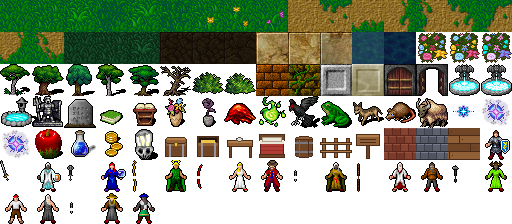
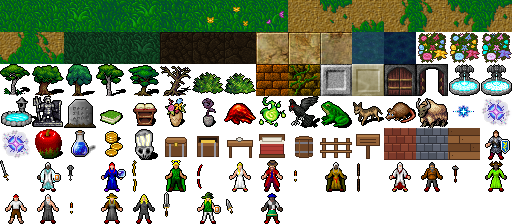
La Dernière Lanterne : deux clins d'œil à Clairfond
Nuage, qui rêve de l'épée la plus grande du monde, et le garçon en vert
qui tranche l'herbe (« Hyaa ! »). Un habitant peut avoir son geste à lui
(anim). Principe noté dans specs/rpg.md § 5.3.

Claude-Session: https://claude.ai/code/session_01RTxURJ1XwSQTktxKmeYS76

Changed region(s): [[0.25, 0.8438, 0.3438, 1.0], [0.375, 0.8438, 0.4688, 1.0], [0.5, 0.875, 0.5625, 1.0]]

diff --git a/lanterne/donnees/evenements.js b/lanterne/donnees/evenements.js
@@ -89,6 +89,21 @@ LANTERNE.evenements = {
     { dire: ['La forge est fermée : le charbon n\'arrive plus, les charrettes ne passent plus par les marais.',
       'Reviens me voir plus tard. Je te trouverai une lame digne d\'un veilleur.'], qui: 'forgeron' }
   ],
+  // deux voyageurs qui rappellent quelqu'un (clins d'œil discrets à d'autres RPG)
+  nuage: [
+    { si: 'nuage_vu',
+      alors: [{ dire: ['Quoi ? Non, je n\'ai jamais été soldat. Enfin… je crois pas.', 'Bref. Elle sera grande. Très grande.'], qui: 'nuage' }],
+      sinon: [
+        { dire: ['Bertin m\'a dit non. Encore.',
+          'Je veux l\'épée la plus grande du monde. Si grande qu\'on la porte dans le dos, et qu\'elle fasse peur rien qu\'à la regarder.',
+          'Il dit qu\'aucun bras ne pourrait la soulever. Il ne connaît pas mes bras.'], qui: 'nuage' },
+        { drapeau: 'nuage_vu' }
+      ] }
+  ],
+  garcon_vert: [
+    { dire: 'Hyaa !', qui: 'garcon_vert' },
+    { dire: 'Il tranche une touffe d\'herbe d\'un grand revers, fouille dedans, puis repart, l\'air déçu.' }
+  ],
   forge_fermee: [{ dire: 'La porte de la forge est fermée. Dehors, Bertin ronchonne contre le charbon.' }],
   pecheur: [
     { dire: ['Ça ne mord plus. Même les poissons ont peur de la brume.',

diff --git a/moteur-rpg/monde.js b/moteur-rpg/monde.js
@@ -8,7 +8,8 @@
        maisons:   [{ x, y, l, p, h, mur, toit, porte: dx }]  la porte est sur la rangée du bas, à x + dx
        objets:    [{ type: 'coffre' | 'panneau' | 'lanterne' | 'deco', x, y, … }]  (bloquent le passage)
        pnj:       [{ id, perso, x, y, evenement, erre, si, cache }]   erre : rayon de promenade (0 : immobile) ;
-                  cache : n'apparaît que par la commande { pnj, montrer } d'un événement
+                  cache : n'apparaît que par la commande { pnj, montrer } d'un événement ;
+                  anim : son geste quand il ne marche pas (ex. 'attaque'), sinon il respire
        sorties:   [{ x, y, vers, a: [x, y], dir }]   x peut être un intervalle [x1, x2]
        declencheurs: [{ x, y, evenement, si }]       lancé quand le chef de file arrive sur la case
        monstres:  [{ type, x, y, rayon }]

diff --git a/lanterne/donnees/base.js b/lanterne/donnees/base.js
@@ -27,7 +27,8 @@ LANTERNE.persos = {
   ysolde: { nom: 'Mère Ysolde', perso: 'ysolde' }, isee: { nom: 'Isée', perso: 'isee' }, vaast: { nom: 'Prieur Vaast', perso: 'vaast' },
   gaspard: { nom: 'Gaspard', perso: 'gaspard' }, forgeron: { nom: 'Bertin le forgeron', perso: 'forgeron' }, aubergiste: { nom: 'Margot', perso: 'aubergiste' },
   enfant: { nom: 'Petit Lou', perso: 'enfant' }, ancien: { nom: 'Le vieux Aimé', perso: 'ancien' }, paysanne: { nom: 'Jeanne', perso: 'paysanne' },
-  pecheur: { nom: 'Fulbert', perso: 'pecheur' }, moine: { nom: 'Un moine', perso: 'vaast' }
+  pecheur: { nom: 'Fulbert', perso: 'pecheur' }, moine: { nom: 'Un moine', perso: 'vaast' },
+  nuage: { nom: 'Nuage', perso: 'nuage' }, garcon_vert: { nom: 'Le garçon en vert', perso: 'garcon_vert' }
 };
 
 LANTERNE.statistiques = [

diff --git a/lanterne/donnees/cartes.js b/lanterne/donnees/cartes.js
@@ -64,7 +64,9 @@ LANTERNE.cartes = {
       { id: 'ancien', perso: 'ancien', x: 9, y: 11, evenement: 'ancien' },
       { id: 'paysanne', perso: 'paysanne', x: 6, y: 8, evenement: 'paysanne', erre: 2 },
       { id: 'forgeron', perso: 'forgeron', x: 5, y: 14, evenement: 'forgeron' },
-      { id: 'pecheur', perso: 'pecheur', x: 15, y: 15, evenement: 'pecheur' }
+      { id: 'pecheur', perso: 'pecheur', x: 15, y: 15, evenement: 'pecheur' },
+      { id: 'nuage', perso: 'nuage', x: 8, y: 13, evenement: 'nuage' },
+      { id: 'garcon_vert', perso: 'garcon_vert', x: 20, y: 11, evenement: 'garcon_vert', erre: 2, anim: 'attaque' }
     ],
     sorties: [
       { x: [11, 12], y: 0, vers: 'route_abbaye', a: [6, 28], dir: 'haut', si: 'mission', refus: 'pas_encore' },

diff --git a/lanterne/donnees/tuiles.js b/lanterne/donnees/tuiles.js
@@ -102,6 +102,10 @@ LANTERNE.tuiles = {
   "ancien_c": [32, 192, 32, 32],
   "ancien_a": [64, 192, 32, 32],
   "paysanne_c": [96, 192, 32, 32],
-  "pecheur_c": [128, 192, 32, 32]
+  "nuage_c": [128, 192, 32, 32],
+  "nuage_a": [160, 192, 32, 32],
+  "garcon_vert_c": [192, 192, 32, 32],
+  "garcon_vert_a": [224, 192, 32, 32],
+  "pecheur_c": [256, 192, 32, 32]
 };
-LANTERNE.prises = {"heros": [8, 19], "eloi": [7, 19], "verene": [8, 21], "maud": [8, 24], "gaspard": [8, 20], "ysolde": [7, 20], "forgeron": [8, 20], "ancien": [8, 20]};
+LANTERNE.prises = {"heros": [8, 19], "eloi": [7, 19], "verene": [8, 21], "maud": [8, 24], "gaspard": [8, 20], "ysolde": [7, 20], "forgeron": [8, 20], "ancien": [8, 20], "nuage": [7, 20], "garcon_vert": [8, 20]};

diff --git a/moteur-rpg/partie.js b/moteur-rpg/partie.js
@@ -83,7 +83,8 @@
       for (const n of pnjs.concat(monstres)) {
         n.t = Math.min(1, n.t + (t - (n.dernier || t)) / (PAS * 1.6)); n.dernier = t;
         const [x, y] = lisse(n, n.t), bouge = n.t < 1;
-        rendu.placer(n.aid, x, y, bouge ? 'marche' : 'repos', bouge ? (n.t * 2) % 1 : 0, n.sens);
+        const anim = !bouge && n.def && n.def.anim;   // un habitant peut avoir son geste à lui (par ex. 'attaque')
+        rendu.placer(n.aid, x, y, bouge ? 'marche' : anim || 'repos', bouge ? (n.t * 2) % 1 : anim ? (t * .7 + (n.def.x || 0)) % 1 : 0, n.sens);
       }
       const [cx, cy] = lisse(chef, k);
       rendu.viser(cx, cy);

diff --git a/specs/suivi.md b/specs/suivi.md
@@ -4,7 +4,7 @@ Détails déplacés de `CLAUDE.md` le 19/10 (pour qu'il reste court : il est rel
 
 ## En cours / à vérifier (au 19/10)
 - **Duché** (20/10) : cahier des charges de l'utilisateur remis au standard de la Ludothèque ([`specs/duche.md`](duche.md) : scripts classiques, `ludo-scores.js`, date locale, une tentative du jour, pixel art 32 bits en portrait, sons discrets, ordre du tour revu) ; maquette `maquettes/duche.html` (A diorama 32 bits, B carte enluminée, C isométrique ; https://claude.ai/artifact/TGCRiKYw1FyA8WUmBxUiw5) refusée ; l'utilisateur veut des **hexagones**, un 4X minimaliste ; maquette 2 `maquettes/duche-2.html` (vectorielle) trop minimale graphiquement : « minimaliste » vise le concept et le nombre de ressources, le dessin doit être riche et animé ; maquette 3 `maquettes/duche-3.html` (A pixel art 32 bits, B illustré en relief) : **A retenue** ; maquette 4 `maquettes/duche-4.html` (carte, événement, combat animés) ; retour : scènes à faire comme Le Thé des Jarls, carte claire et lisible ; maquette 5 `maquettes/duche-5.html` (https://claude.ai/artifact/DBUtVjbVaptU8485abFrVv : scènes HD-2D, carte plus lisible) **validée le 20/10** ; pixel art à améliorer un peu en session 2. **Session 1 faite le 20/10** : `duche/regles.js`, `duche/evenements.js`, `duche/ia.js` (scripts classiques, chargés par Node via `vm` dans `outils/duche-simulateur.js`, lancé par `verifications.js`) ; équilibrage au simulateur : roi mort au tour 11, un vote tous les 2 tours, électeurs à critères variés avec 40 de légitimité minimum, rival couronné = fin, milice sur les terres neutres (à valider, `specs/duche.md` § 15) ; nourriture et bois abondants, à revoir après de vraies parties ; `sw.js` v44 (les 3 fichiers en cache). Deux difficultés ajoutées (20/10, facile = règles de base, normal = plaines à 1 nourriture par qualité, entretien 1/5, hiver annuel, bâtiments ×1,5, rivaux plus mordants ; jour toujours en normal) : 41 % → 28 % de victoires au simulateur, deux fois plus de fermes bâties (`specs/duche.md` § 15). **Session 2 faite le 20/10** : `decor.js` (carte tirée de l'état avec saisons, scènes HD-2D par terrain et saison, illustrations des événements), `jeu.js`, `index.html`, `style.css` ; jouable sur `duche/index.html` (pas encore sur l'accueil) ; défenseur vainqueur : pertes arrondies en dessous. **Session 3 faite le 21/10** : sons, classements, accueil, aide au premier tour, tests (`logique.js`, `fumee.js`), `sw.js` v46 ; **jeu fini**, à essayer sur le téléphone ; artefact créé le 21/10 (https://claude.ai/artifact/5Ad2yYzProUEqpSx7Q3ook). Scène de bataille corrigée (21/10) : bannières plantées derrière les rangs (elles avançaient seules), habitants armés en face quand la terre n'a pas de garnison mais une défense (terrain, murs : 2 figurines par point), terre sans aucune défense occupée sans combat (scène OCCUPATION). Graphismes plus lisibles (21/10, demande de l'utilisateur) : bâtiments redessinés et bien distincts (grange rouge et moulin, scierie à scie ronde et grumes, mine dans le rocher avec rails et or, deux étals rayés au marché, tente et râtelier de lances à la caserne), décalés pour que l'écusson ne les cache plus ; miniature de chaque bâtiment dans le menu CONSTRUIRE ; lance des soldats tenue le long du dos (plus entre les pieds) ; armées plus écartées ; le premier rang tombe d'abord. 30 tours, 37 terres. Partie libre classée (`best`), Duché remplace Le Petit Royaume. Ensuite 3 sessions, Opus.
-- **La Dernière Lanterne (RPG)** (20/10) : cahier des charges [`specs/rpg.md`](specs/rpg.md) : petit RPG de 5 à 10 h façon Link's Awakening / Dragon Quest 1, 4 classes (LAME, ARCANISTE, RODEUR, CLERC), 6 stats expliquées, scénario en 4 actes et 3 rebondissements (Isée la Brumienne, le Prieur qui est Aubrin), moteur `moteur-rpg/` séparé des données. Relu le 20/10 : titre validé, **équipe de 4 héros** (le héros LAME, ELOI CLERC, VERENE ARCANISTE, MAUD RODEUR), **tour par tour**, **sauvegardes automatiques aux moments clés** (défaite = reprise à la plus récente, sans perte), **pas de classement** ; larmes et troc gardés pour l'instant mais trop proches de Zelda (remplacements proposés au § 8.4). Puis **validé** le 20/10 : monstres visibles sur la carte, l'équipe telle quelle, larmes et troc remplacés par les lanternes oubliées et les quêtes des compagnons. **Maquette (20/10)** `maquettes/la-derniere-lanterne.html` (https://claude.ai/artifact/DniPR4j2u1FEJXJWY7wuuo) : trois directions sur trois téléphones, même moment du jeu, trois scènes animées (carte du Bois Murmurant avec l'équipe en file, la lanterne et un feu follet ; combat à quatre au tour par tour ; Isée à Clairfond) : A la nuit gothique (Vampire Survivors, lumière par paliers, brume tramée, cartes-portraits au combat), B le conte 16 bits (Link's Awakening DX / Dragon Quest, fenêtres bleues, combat de face), C lumière et brume (pixel art sous halos doux, brume en nappes, combat de côté avec l'ordre des tours). **Retour : C « pas mal mais beaucoup de travail »** ; combat vu de profil avec une animation par attaque ; personnages et décor à revoir, s'inspirer d'**Octopath Traveler sans HD-2D**. **Maquette 2 (20/10)** `maquettes/la-derniere-lanterne-2.html` (https://claude.ai/artifact/TLds9VrVmtsNQTv8RD4TeM) : écran logique 180 × 320 ; personnages articulés (pantins dessinés en pixels, ombrage et contour coloré automatiques, poses : marche, course, garde, élan, taille, sort, prière, coup de dague, coup reçu) ; décor en relief (grands arbres, muret et escalier, ruisseau, pont, lanterne de pierre, panneau, clôture) ; combat de profil animé (MAUD disparaît et frappe deux fois, ALDEN court et taille, cristaux de VERENE, colonne de lumière d'ELOI, feu follet et gelée qui attaquent) ; même dessin sous trois lumières : 1 crépuscule doré, 2 nuit des lanternes, 3 matin de brume. **Retour : la 1 est bien, mais pas l'ambiance crépusculaire (« une journée normale ») ; les personnages « ça fait pas ouf ».** **Maquette 3 (20/10)** `maquettes/la-derniere-lanterne-3.html` (https://claude.ai/artifact/C82S25sKWRxf6cxCvFsne7) : plein jour (ciel bleu, nuages, ombres de nuages qui passent) ; personnages redessinés (visage de trois quarts : deux yeux, sourcils, nez, bouche ; coiffures et tenues propres à chacun : cape rouge d'ALDEN, capuche d'ELOI dans le dos, chapeau de VERENE, capuche et écharpe de MAUD) ; deux proportions : 1 héroïque (trois têtes, façon Octopath), 2 conte (deux têtes, grands yeux, joues roses) ; nouvel onglet EQUIPE (les quatre en grand et leurs gestes). **Retour : l'utilisateur envoie des planches de sprites d'Octopath Traveler (et de Final Fantasy Brave Exvius / War of the Visions) : « voilà le genre de DA que j'attends ».** **Maquette 4 (20/10)** `maquettes/la-derniere-lanterne-4.html` (https://claude.ai/artifact/1jUkewXd353fDwNWAk5vbp) : héros dessinés pixel par pixel (grilles de 22 colonnes, vue de face de trois quarts, grosse chevelure, petit visage), bras et arme redessinés seulement pendant les gestes, traits sombres entre matières et modelé automatiques ; contour noir (1) ou doux (2). Limite constatée : moins fin que les références (moins de nuances, corps trop larges) ; piste si ça ne suffit pas : partir de sprites existants libres de droits ou fournis par l'utilisateur. **Retour : refusée, « ça ne s'inspire pas du tout des sprites » ; laisser entièrement tomber le design et la DA actuels et repartir des sprites de référence.** **Maquette 5 (20/10)** `maquettes/la-derniere-lanterne-5.html` (https://claude.ai/artifact/TNkaxKCqaAMe2Tsa7Rs36J) : planche sur fond clair comme les références ; mesures prises sur les sprites de référence (18 × 34 px, tête et cheveux sur 13 lignes, petit visage, corps étroit, bras le long du corps, jambes séparées, 3 à 4 nuances par matière, contour presque noir teinté) ; ALDEN, ELOI, VERENE, MAUD et Isée dessinés de zéro (pas de copie), animés (respiration, marche, geste), à taille agrandie et à taille réelle. Décor, monstres et combat à refaire dans ce style après validation des héros. **Retour : « pas assez proportionné, trop grosse tête, trop coloré ».** **v2 (même lien)** : tête ramenée à 12 colonnes sur 13 lignes, corps plus large (16 colonnes avec les bras), jambes plus longues (sprites de 35 à 38 lignes), palettes éteintes et terreuses (bleu gris, rouge passé, vert mousse, prune, écru). À valider. **Retour (21/10) : « ça ne ressemble pas, même de loin, aux modèles ».** Constat : dessiner des sprites de ce niveau en code ne marche pas ; pistes : pack existant ou sprites fournis. L'utilisateur a montré une planche de guerrier générée par une autre IA (style visé : personnages de face, détaillés, cape, cotte de mailles ; inutilisable telle quelle, pixels hors grille). Essai du pack gratuit **Tiny RPG Character Asset Pack** de Zerie (itch.io autorisé dans l'environnement ; version gratuite : Soldat et Orque, 100 × 100 par image, ~20 px de haut, 7 animations) : https://claude.ai/artifact/UGnfWCjt2XEpsWdbSCKaAK (fichier gardé hors du dépôt : la licence interdit de redistribuer les fichiers bruts). Style chibi minuscule, loin du style visé. En attente du choix de l'utilisateur. Galerie de 24 packs trouvés sur itch.io : https://claude.ai/artifact/WUNw5EGKguEcTL7MaohZfY. L'utilisateur veut rester sur du gratuit. Essai du pack **32rogues** de Seth (gratuit ; usage commercial permis, sans redistribution ni IA ; 32 × 32 vus de face, une seule image par personnage, monstres, animaux, objets et décors) : https://claude.ai/artifact/WsWqBAKVZw8iEc8n3X6JLB (équipe au choix, carte, combat animé par le code ; décor du pack sombre, posé sur un sol clair). Fichiers d'essai gardés hors du dépôt. Essai des packs **Kenney** (CC0, aucune contrainte) « Roguelike Characters » + « Roguelike RPG Pack » : héros composés pièce par pièce (16 × 16), village d'exemple du pack, combat animé par le code : `maquettes/la-derniere-lanterne-kenney.html` (https://claude.ai/artifact/BDsADhAxC8KP1Psj4piGDX). L'utilisateur : « la DA sera peut-être plus sympa comme ça ». À valider. **Décision (21/10) : partir sur du 16 × 16** (32 × 32 trop rare en gratuit), avec des personnages plus détaillés que Kenney. Galerie de 24 packs gratuits 16 × 16 : https://claude.ai/artifact/EL654zY3aaBvk9mRQt2arS ; l'utilisateur retient 1 (superdark, Fantasy RPG Characters : licence libre, ~25 humains, pas de monstres), 3 (thingonitsown, Heroes and Monsters : animé, mais reprend World of Warcraft, héros déconseillés) et 15 (Pixel Crawler d'anokolisa : le plus soigné, animé, décors superbes, seulement 3 héros, conditions dans un document externe non lu). Essai des trois : https://claude.ai/artifact/4X5giCU7XDi5T3cBnNo6Ph (hors dépôt). **Famille trouvée (21/10)** : le pack superdark est une extension de **0x72 DungeonTileset II** (CC0 : héros chevalier, elfe, magicienne, nain, homme-lézard ; gobelins, orques, squelettes, zombies, démons, gelées ; donjons ; tout animé) ; superdark a aussi **Enchanted Forest Characters** (gratuit, usage libre : prêtres, rôdeuse, elfes, fée, loups, ours, champignons, gnolls, troll, ent, golem ; animés). Packs d'objets de l'utilisateur : **ssugmi** 16 × 16 (70 objets, usage commercial permis, redistribution interdite) et **Shikashi** (284 icônes 32 × 32, libres, crédit « Matt Firth (shikashipx) » et « game-icons.net »). Essai du mélange (équipe au choix, combat en forêt, combat contre les monstres de Pixel Crawler, inventaire) : https://claude.ai/artifact/Hy1AiMTiEER6Vi4qCB7KPf (hors dépôt). L'utilisateur : faire un RPG sans un pack solide est compliqué. **Essai de Ninja Adventure (21/10)** (pixel-boy et AAA, CC0, prix libre, 89 Mo : 50+ personnages animés 4 directions avec portraits, 30+ monstres, 9 boss, décors, interface, police, effets, objets, 100+ bruitages, 37 musiques) : `maquettes/la-derniere-lanterne-ninja.html` (https://claude.ai/artifact/Tzfphngo1JkMHwPnEHjRwE) : équipe au choix, village composé avec les décors, dialogue avec portrait, combat avec effets et bruitages, inventaire, musique « Lost Village ». Note technique : la police du pack (NormalFont.ttf) n'a pas d'espace, il faut placer les mots un par un. **Validé (21/10) : Ninja Adventure retenu.** Deux points : police du pack trop difficile à lire (en choisir une autre) ; sélection des personnages à faire. Page de choix `maquettes/la-derniere-lanterne-choix.html` (https://claude.ai/artifact/6wntfaMcXYmeNNYuUQgNhn) : trois polices (Pixelify Sans, VT323, Jersey 10) dans la boîte de dialogue et le bandeau de combat ; les 92 personnages du pack, à attribuer aux rôles (4 héros, Isée, Mère Ysolde, Prieur Vaast, Gaspard, villageois), bilan à copier. En attente des choix (page de choix mise de côté le 21/10 à la demande de l'utilisateur). **Essai Dungeon Crawl 32 × 32** (21/10, `maquettes/la-derniere-lanterne-dcss.html`, https://claude.ai/artifact/9cesgeEQCAj1t8FaMz3uty) : tuiles de Dungeon Crawl Stone Soup (CC0, prises dans le dépôt GitHub `crawl/crawl`, dossier `crawl-ref/source/rltiles`, car `opengameart.org` était encore bloqué ; pour la vraie version, prendre le zip d'OpenGameArt, CC0) ; héros composés en poupée (corps + armure + arme, l'équipement se voit), village, combat animé, objets ; limites : une seule image de face par personnage, peu de décor de village, ni interface ni sons. Avis : « ça rend pas si mal » ; demande d'essayer les sons de Ninja Adventure, des animations et une vue HD-2D. **Essai HD-2D** (21/10, `maquettes/la-derniere-lanterne-hd2d.html`, https://claude.ai/artifact/HtaCGnYudqSPyiqTZEeJNn) : Three.js r128 (cdnjs) ; village et combat en relief (maison avec toit, arbres en panneaux qui projettent leur ombre, flou de profondeur et lueur faits par un petit shader maison, poussières dans la lumière, lanterne de pierre éclairée, éclairs colorés des sorts) ; animations faites par le code dans un canevas 64 × 48 par personnage (respiration, marche balancée, arme tournée autour de sa prise calculée par `construire.py`, flash, saut) ; sons et musiques (« Calm Village », « Fight ») de Ninja Adventure en ogg mono ; page de 950 Ko. Sources de fabrication dans le brouillon de la session (`dcw/construire.py`, `gabarit2.html`). Avis (21/10) : « incroyable », graphismes cohérents, la HD-2D donne un côté original ; quelques retouches à venir. Corrigé : son muet (les sons sont décodés depuis le base64 avec `atob` au lieu de `fetch` sur une URL `data:`, et un son vide joué pendant le geste débloque l'audio) ; monstres retournés face aux héros (les tuiles de Dungeon Crawl regardent vers la gauche). Avis suivant : musique bien, sons des sorts « pas terribles », attaque en « pirouette bizarre », demande de voir ce qu'on peut faire des personnages. Fait (21/10) : attaque calmée (l'arme tourne de 0,35 puis −0,55 rad au lieu de 0,8 puis −1,4) ; **banc des sons** dans l'essai HD-2D (2 à 4 sons par action : Ninja Adventure, Kenney CC0 « RPG Audio » et « Impact Sounds », et **Leohpaz « RPG Essentials SFX Free »** sur itch.io : usage libre même commercial, crédit apprécié, mais interdit de redistribuer le pack lui-même ; choix gardés dans `localStorage` `ldl-sons`) ; **atelier des personnages** (`maquettes/la-derniere-lanterne-atelier.html`, https://claude.ai/artifact/StNMGsAUALcSSQEenvs2H2, 2 Mo) : composer un héros pièce par pièce (174 corps, 56 coiffures, 35 barbes, 159 armures, 103 coiffes, 224 armes, 36 boucliers, capes, gants, bottes, jambes ; ordre de superposition de Dungeon Crawl, cape derrière), animations, au hasard, recette à copier ; galerie de 1 129 monstres et habitants par famille. Fabriqué par `dcw/atelier.py` dans le brouillon. **Choix (22/10)** : personnages actuels gardés ; sons choisis (détail dans `specs/rpg.md` § 14), mis par défaut dans l'essai HD-2D. **DA validée** : Dungeon Crawl 32 × 32 en HD-2D (`specs/rpg.md` § 13). **Session 1 du moteur faite (22/10)** : `moteur-rpg/` (regles, etat, monde, evenements testables sous Node ; poupees, rendu HD-2D, interface, menu, entrees, sons, partie) et `lanterne/` jouable : écran titre (3 emplacements, effacer, nom du héros), maison d'Ysolde (début du prologue, mission, 2 herbes, 30 écus), Clairfond (3 maisons dont l'auberge, 7 habitants dont Gaspard et son « âne » Biscotte, statue d'Aubrin, lanterne du village qui soigne et sauvegarde, coffre, panneaux, étang, fontaine), route de la forêt dans la brume (4 monstres errants, rencontre avec Isée, lanterne oubliée qui montre un souvenir, coffre, lanterne de sauvegarde, portes de l'abbaye = fin de cette version). Les combats ne sont pas encore là : toucher un monstre affiche un message et le monstre disparaît. Sauvegardes : automatiques (Clairfond, route, événements), à la main aux lanternes, copie de reprise à chaque carte. Décisions prises en route (à valider par l'utilisateur) : caméra qui suit l'équipe au lieu de l'écran par écran ; Pixelify Sans avec accents ; nom du héros 8 lettres. Vérifié : `outils/lanterne-tests.js` (moteur, données, accessibilité), bloc de `fumee.js`, ESLint, parties jouées au clavier dans Chromium. `sw.js` passé à `ludotheque-v50`. Pas encore : accueil, `LUDO1-`, artefact (session 6). Prochaine étape : session 2 (combats), Opus.
+- **La Dernière Lanterne (RPG)** (20/10) : cahier des charges [`specs/rpg.md`](specs/rpg.md) : petit RPG de 5 à 10 h façon Link's Awakening / Dragon Quest 1, 4 classes (LAME, ARCANISTE, RODEUR, CLERC), 6 stats expliquées, scénario en 4 actes et 3 rebondissements (Isée la Brumienne, le Prieur qui est Aubrin), moteur `moteur-rpg/` séparé des données. Relu le 20/10 : titre validé, **équipe de 4 héros** (le héros LAME, ELOI CLERC, VERENE ARCANISTE, MAUD RODEUR), **tour par tour**, **sauvegardes automatiques aux moments clés** (défaite = reprise à la plus récente, sans perte), **pas de classement** ; larmes et troc gardés pour l'instant mais trop proches de Zelda (remplacements proposés au § 8.4). Puis **validé** le 20/10 : monstres visibles sur la carte, l'équipe telle quelle, larmes et troc remplacés par les lanternes oubliées et les quêtes des compagnons. **Maquette (20/10)** `maquettes/la-derniere-lanterne.html` (https://claude.ai/artifact/DniPR4j2u1FEJXJWY7wuuo) : trois directions sur trois téléphones, même moment du jeu, trois scènes animées (carte du Bois Murmurant avec l'équipe en file, la lanterne et un feu follet ; combat à quatre au tour par tour ; Isée à Clairfond) : A la nuit gothique (Vampire Survivors, lumière par paliers, brume tramée, cartes-portraits au combat), B le conte 16 bits (Link's Awakening DX / Dragon Quest, fenêtres bleues, combat de face), C lumière et brume (pixel art sous halos doux, brume en nappes, combat de côté avec l'ordre des tours). **Retour : C « pas mal mais beaucoup de travail »** ; combat vu de profil avec une animation par attaque ; personnages et décor à revoir, s'inspirer d'**Octopath Traveler sans HD-2D**. **Maquette 2 (20/10)** `maquettes/la-derniere-lanterne-2.html` (https://claude.ai/artifact/TLds9VrVmtsNQTv8RD4TeM) : écran logique 180 × 320 ; personnages articulés (pantins dessinés en pixels, ombrage et contour coloré automatiques, poses : marche, course, garde, élan, taille, sort, prière, coup de dague, coup reçu) ; décor en relief (grands arbres, muret et escalier, ruisseau, pont, lanterne de pierre, panneau, clôture) ; combat de profil animé (MAUD disparaît et frappe deux fois, ALDEN court et taille, cristaux de VERENE, colonne de lumière d'ELOI, feu follet et gelée qui attaquent) ; même dessin sous trois lumières : 1 crépuscule doré, 2 nuit des lanternes, 3 matin de brume. **Retour : la 1 est bien, mais pas l'ambiance crépusculaire (« une journée normale ») ; les personnages « ça fait pas ouf ».** **Maquette 3 (20/10)** `maquettes/la-derniere-lanterne-3.html` (https://claude.ai/artifact/C82S25sKWRxf6cxCvFsne7) : plein jour (ciel bleu, nuages, ombres de nuages qui passent) ; personnages redessinés (visage de trois quarts : deux yeux, sourcils, nez, bouche ; coiffures et tenues propres à chacun : cape rouge d'ALDEN, capuche d'ELOI dans le dos, chapeau de VERENE, capuche et écharpe de MAUD) ; deux proportions : 1 héroïque (trois têtes, façon Octopath), 2 conte (deux têtes, grands yeux, joues roses) ; nouvel onglet EQUIPE (les quatre en grand et leurs gestes). **Retour : l'utilisateur envoie des planches de sprites d'Octopath Traveler (et de Final Fantasy Brave Exvius / War of the Visions) : « voilà le genre de DA que j'attends ».** **Maquette 4 (20/10)** `maquettes/la-derniere-lanterne-4.html` (https://claude.ai/artifact/1jUkewXd353fDwNWAk5vbp) : héros dessinés pixel par pixel (grilles de 22 colonnes, vue de face de trois quarts, grosse chevelure, petit visage), bras et arme redessinés seulement pendant les gestes, traits sombres entre matières et modelé automatiques ; contour noir (1) ou doux (2). Limite constatée : moins fin que les références (moins de nuances, corps trop larges) ; piste si ça ne suffit pas : partir de sprites existants libres de droits ou fournis par l'utilisateur. **Retour : refusée, « ça ne s'inspire pas du tout des sprites » ; laisser entièrement tomber le design et la DA actuels et repartir des sprites de référence.** **Maquette 5 (20/10)** `maquettes/la-derniere-lanterne-5.html` (https://claude.ai/artifact/TNkaxKCqaAMe2Tsa7Rs36J) : planche sur fond clair comme les références ; mesures prises sur les sprites de référence (18 × 34 px, tête et cheveux sur 13 lignes, petit visage, corps étroit, bras le long du corps, jambes séparées, 3 à 4 nuances par matière, contour presque noir teinté) ; ALDEN, ELOI, VERENE, MAUD et Isée dessinés de zéro (pas de copie), animés (respiration, marche, geste), à taille agrandie et à taille réelle. Décor, monstres et combat à refaire dans ce style après validation des héros. **Retour : « pas assez proportionné, trop grosse tête, trop coloré ».** **v2 (même lien)** : tête ramenée à 12 colonnes sur 13 lignes, corps plus large (16 colonnes avec les bras), jambes plus longues (sprites de 35 à 38 lignes), palettes éteintes et terreuses (bleu gris, rouge passé, vert mousse, prune, écru). À valider. **Retour (21/10) : « ça ne ressemble pas, même de loin, aux modèles ».** Constat : dessiner des sprites de ce niveau en code ne marche pas ; pistes : pack existant ou sprites fournis. L'utilisateur a montré une planche de guerrier générée par une autre IA (style visé : personnages de face, détaillés, cape, cotte de mailles ; inutilisable telle quelle, pixels hors grille). Essai du pack gratuit **Tiny RPG Character Asset Pack** de Zerie (itch.io autorisé dans l'environnement ; version gratuite : Soldat et Orque, 100 × 100 par image, ~20 px de haut, 7 animations) : https://claude.ai/artifact/UGnfWCjt2XEpsWdbSCKaAK (fichier gardé hors du dépôt : la licence interdit de redistribuer les fichiers bruts). Style chibi minuscule, loin du style visé. En attente du choix de l'utilisateur. Galerie de 24 packs trouvés sur itch.io : https://claude.ai/artifact/WUNw5EGKguEcTL7MaohZfY. L'utilisateur veut rester sur du gratuit. Essai du pack **32rogues** de Seth (gratuit ; usage commercial permis, sans redistribution ni IA ; 32 × 32 vus de face, une seule image par personnage, monstres, animaux, objets et décors) : https://claude.ai/artifact/WsWqBAKVZw8iEc8n3X6JLB (équipe au choix, carte, combat animé par le code ; décor du pack sombre, posé sur un sol clair). Fichiers d'essai gardés hors du dépôt. Essai des packs **Kenney** (CC0, aucune contrainte) « Roguelike Characters » + « Roguelike RPG Pack » : héros composés pièce par pièce (16 × 16), village d'exemple du pack, combat animé par le code : `maquettes/la-derniere-lanterne-kenney.html` (https://claude.ai/artifact/BDsADhAxC8KP1Psj4piGDX). L'utilisateur : « la DA sera peut-être plus sympa comme ça ». À valider. **Décision (21/10) : partir sur du 16 × 16** (32 × 32 trop rare en gratuit), avec des personnages plus détaillés que Kenney. Galerie de 24 packs gratuits 16 × 16 : https://claude.ai/artifact/EL654zY3aaBvk9mRQt2arS ; l'utilisateur retient 1 (superdark, Fantasy RPG Characters : licence libre, ~25 humains, pas de monstres), 3 (thingonitsown, Heroes and Monsters : animé, mais reprend World of Warcraft, héros déconseillés) et 15 (Pixel Crawler d'anokolisa : le plus soigné, animé, décors superbes, seulement 3 héros, conditions dans un document externe non lu). Essai des trois : https://claude.ai/artifact/4X5giCU7XDi5T3cBnNo6Ph (hors dépôt). **Famille trouvée (21/10)** : le pack superdark est une extension de **0x72 DungeonTileset II** (CC0 : héros chevalier, elfe, magicienne, nain, homme-lézard ; gobelins, orques, squelettes, zombies, démons, gelées ; donjons ; tout animé) ; superdark a aussi **Enchanted Forest Characters** (gratuit, usage libre : prêtres, rôdeuse, elfes, fée, loups, ours, champignons, gnolls, troll, ent, golem ; animés). Packs d'objets de l'utilisateur : **ssugmi** 16 × 16 (70 objets, usage commercial permis, redistribution interdite) et **Shikashi** (284 icônes 32 × 32, libres, crédit « Matt Firth (shikashipx) » et « game-icons.net »). Essai du mélange (équipe au choix, combat en forêt, combat contre les monstres de Pixel Crawler, inventaire) : https://claude.ai/artifact/Hy1AiMTiEER6Vi4qCB7KPf (hors dépôt). L'utilisateur : faire un RPG sans un pack solide est compliqué. **Essai de Ninja Adventure (21/10)** (pixel-boy et AAA, CC0, prix libre, 89 Mo : 50+ personnages animés 4 directions avec portraits, 30+ monstres, 9 boss, décors, interface, police, effets, objets, 100+ bruitages, 37 musiques) : `maquettes/la-derniere-lanterne-ninja.html` (https://claude.ai/artifact/Tzfphngo1JkMHwPnEHjRwE) : équipe au choix, village composé avec les décors, dialogue avec portrait, combat avec effets et bruitages, inventaire, musique « Lost Village ». Note technique : la police du pack (NormalFont.ttf) n'a pas d'espace, il faut placer les mots un par un. **Validé (21/10) : Ninja Adventure retenu.** Deux points : police du pack trop difficile à lire (en choisir une autre) ; sélection des personnages à faire. Page de choix `maquettes/la-derniere-lanterne-choix.html` (https://claude.ai/artifact/6wntfaMcXYmeNNYuUQgNhn) : trois polices (Pixelify Sans, VT323, Jersey 10) dans la boîte de dialogue et le bandeau de combat ; les 92 personnages du pack, à attribuer aux rôles (4 héros, Isée, Mère Ysolde, Prieur Vaast, Gaspard, villageois), bilan à copier. En attente des choix (page de choix mise de côté le 21/10 à la demande de l'utilisateur). **Essai Dungeon Crawl 32 × 32** (21/10, `maquettes/la-derniere-lanterne-dcss.html`, https://claude.ai/artifact/9cesgeEQCAj1t8FaMz3uty) : tuiles de Dungeon Crawl Stone Soup (CC0, prises dans le dépôt GitHub `crawl/crawl`, dossier `crawl-ref/source/rltiles`, car `opengameart.org` était encore bloqué ; pour la vraie version, prendre le zip d'OpenGameArt, CC0) ; héros composés en poupée (corps + armure + arme, l'équipement se voit), village, combat animé, objets ; limites : une seule image de face par personnage, peu de décor de village, ni interface ni sons. Avis : « ça rend pas si mal » ; demande d'essayer les sons de Ninja Adventure, des animations et une vue HD-2D. **Essai HD-2D** (21/10, `maquettes/la-derniere-lanterne-hd2d.html`, https://claude.ai/artifact/HtaCGnYudqSPyiqTZEeJNn) : Three.js r128 (cdnjs) ; village et combat en relief (maison avec toit, arbres en panneaux qui projettent leur ombre, flou de profondeur et lueur faits par un petit shader maison, poussières dans la lumière, lanterne de pierre éclairée, éclairs colorés des sorts) ; animations faites par le code dans un canevas 64 × 48 par personnage (respiration, marche balancée, arme tournée autour de sa prise calculée par `construire.py`, flash, saut) ; sons et musiques (« Calm Village », « Fight ») de Ninja Adventure en ogg mono ; page de 950 Ko. Sources de fabrication dans le brouillon de la session (`dcw/construire.py`, `gabarit2.html`). Avis (21/10) : « incroyable », graphismes cohérents, la HD-2D donne un côté original ; quelques retouches à venir. Corrigé : son muet (les sons sont décodés depuis le base64 avec `atob` au lieu de `fetch` sur une URL `data:`, et un son vide joué pendant le geste débloque l'audio) ; monstres retournés face aux héros (les tuiles de Dungeon Crawl regardent vers la gauche). Avis suivant : musique bien, sons des sorts « pas terribles », attaque en « pirouette bizarre », demande de voir ce qu'on peut faire des personnages. Fait (21/10) : attaque calmée (l'arme tourne de 0,35 puis −0,55 rad au lieu de 0,8 puis −1,4) ; **banc des sons** dans l'essai HD-2D (2 à 4 sons par action : Ninja Adventure, Kenney CC0 « RPG Audio » et « Impact Sounds », et **Leohpaz « RPG Essentials SFX Free »** sur itch.io : usage libre même commercial, crédit apprécié, mais interdit de redistribuer le pack lui-même ; choix gardés dans `localStorage` `ldl-sons`) ; **atelier des personnages** (`maquettes/la-derniere-lanterne-atelier.html`, https://claude.ai/artifact/StNMGsAUALcSSQEenvs2H2, 2 Mo) : composer un héros pièce par pièce (174 corps, 56 coiffures, 35 barbes, 159 armures, 103 coiffes, 224 armes, 36 boucliers, capes, gants, bottes, jambes ; ordre de superposition de Dungeon Crawl, cape derrière), animations, au hasard, recette à copier ; galerie de 1 129 monstres et habitants par famille. Fabriqué par `dcw/atelier.py` dans le brouillon. **Choix (22/10)** : personnages actuels gardés ; sons choisis (détail dans `specs/rpg.md` § 14), mis par défaut dans l'essai HD-2D. **DA validée** : Dungeon Crawl 32 × 32 en HD-2D (`specs/rpg.md` § 13). **Session 1 du moteur faite (22/10)** : `moteur-rpg/` (regles, etat, monde, evenements testables sous Node ; poupees, rendu HD-2D, interface, menu, entrees, sons, partie) et `lanterne/` jouable : écran titre (3 emplacements, effacer, nom du héros), maison d'Ysolde (début du prologue, mission, 2 herbes, 30 écus), Clairfond (3 maisons dont l'auberge, 7 habitants dont Gaspard et son « âne » Biscotte, statue d'Aubrin, lanterne du village qui soigne et sauvegarde, coffre, panneaux, étang, fontaine), route de la forêt dans la brume (4 monstres errants, rencontre avec Isée, lanterne oubliée qui montre un souvenir, coffre, lanterne de sauvegarde, portes de l'abbaye = fin de cette version). Les combats ne sont pas encore là : toucher un monstre affiche un message et le monstre disparaît. Sauvegardes : automatiques (Clairfond, route, événements), à la main aux lanternes, copie de reprise à chaque carte. Décisions prises en route (à valider par l'utilisateur) : caméra qui suit l'équipe au lieu de l'écran par écran ; Pixelify Sans avec accents ; nom du héros 8 lettres. Vérifié : `outils/lanterne-tests.js` (moteur, données, accessibilité), bloc de `fumee.js`, ESLint, parties jouées au clavier dans Chromium. `sw.js` passé à `ludotheque-v50`. Pas encore : accueil, `LUDO1-`, artefact (session 6). Clins d'œil (idée de l'utilisateur, 22/10, `specs/rpg.md` § 5.3) : Nuage (Cloud) et le garçon en vert (Link) à Clairfond ; les habitants peuvent avoir leur geste (`anim` dans la carte). Prochaine étape : session 2 (combats), Opus.
 - **Revue « ingénieur senior »** (19/10) : rapport [`specs/revue-code.md`](specs/revue-code.md) (problèmes, tests, propositions pour économiser des jetons, prochaines étapes chiffrées). Faits : test de cohérence des classements (`verifications.js` § 9), `outils/logique.js` dans la CI (grilles du jour, Picross, Yams, transfert ; 365 jours chaque lundi), code mort d'Alunissage retiré. Suites toutes faites le 19/10 (§ 7) ; le moteur commun Amiral ! / Escadrille ! est abandonné (20/10) : le lot 2 d'Escadrille a été fait par copie, comme le recommandait `specs/escadrille.md` § 9. **Chantier terminé.**
 - **Amiral ! : chantier naval** (17/10) : cahier des charges [`specs/amiral.md`](specs/amiral.md). Maquettes validées : écrans `maquettes/amiral-chantier.html` (https://claude.ai/artifact/7jpyciqv3pN5x4AYJqe2aS, police C « mélange ») et dessins `maquettes/amiral-navires.html` (https://claude.ai/artifact/2kK1n6Uj7Smo4JCavJLiSN). **Session 1 faite (17/10)** : hauteur qui suit l'écran, polices Press Start 2P + Rajdhani, torpille/sonar/projecteur en deux gestes, FEU !, pouvoirs généralisés par navire, chantier naval, 4 nouveaux navires jouables avec l'IA (croiseur MISSILES, destroyer SONAR, garde-côte PROJECTEUR, navire-atelier REPARATION), parties simulées (`Amiral.simulate`) ; bilan et réglages : `specs/amiral.md` § 7. Les 4 nouveaux navires restent ouverts à tous (décision du 17/10 : pas de reverrouillage ; seuls mouilleur, brouilleur et vedette seront à débloquer). À essayer sur le téléphone. **Session 2 faite (19/10)** : mouilleur MINES (tir en retour qui touche à coup sûr), brouilleur FUMEE (résultats cachés 2 coups), vedette LEURRE (faux navire de 2 cases), avec l'IA qui sait les poser et s'y laisse prendre ; déblocages (Capitaine, Amiral, 10 victoires) et annonce en fin de partie ; bataille du jour (flottes, placement ennemi et hasard de l'IA tirés de la date, Capitaine, une tentative classée comptée au COMBAT !, classement `daily:`) ; accueil (défi du jour, records, classement du jour, transfert du palmarès) ; artefact republié. Bilan et réglages : `specs/amiral.md` § 8. **À essayer sur le téléphone** (gestes des mines et du leurre, lisibilité de la fumée), et un vrai record du jour à confirmer. **Test instable corrigé (20/10)** : le test d'Amiral ! de `fumee.js` échouait environ 1 fois sur 30 (leurre, fumée, sonar) car il vérifiait après le tour de l'ordinateur, joué au hasard ; vérifications faites dès la fin de l'action du joueur, une nouvelle partie pour mines, fumée et leurre, cases sans piège ennemi ; 60/60 en local, CI verte sur `main`.
 - **Accueil retouché** (19/10) : revue du design de l'accueil (12 points), DA Dragon Quest abandonnée après 3 maquettes ; maquette `maquettes/accueil-retouche.html` (https://claude.ai/artifact/FKNVcDsu1bhjHpBt7ZraAw), **choix C** (l'étagère d'aujourd'hui) ; installé (détails : `specs/ludotheque.md`). À voir sur le téléphone : noms sous les cartouches, filtres sur une ligne, bandeau du jeu à la une, volet, REJOINDRE ▶.

diff --git a/specs/rpg.md b/specs/rpg.md
@@ -90,6 +90,12 @@ Le joueur ne choisit pas les classes : chaque compagnon a la sienne et **sa prop
 - **Gaspard le colporteur** et son âne Biscotte : le marchand qu'on croise partout, même dans les donjons, et le comique du jeu.
 - **Les Chevaliers de cendre** : la garde de l'abbaye, en armures vides, qui apparaissent à partir de l'acte 3.
 
+### 5.3 Clins d'œil à d'autres RPG (idée de l'utilisateur, 22/10)
+Quelques habitants peuvent rappeler des héros d'autres RPG, **toujours discrètement** : jamais le vrai nom, seulement un détail qu'un connaisseur reconnaîtra.
+- **Nuage** (Clairfond, session 1) : jeune homme blond qui veut faire forger « l'épée la plus grande du monde » et jure n'avoir « jamais été soldat… enfin, je crois pas » (Cloud, Final Fantasy VII).
+- **Le garçon en vert** (Clairfond, session 1) : oreilles pointues, chapeau pointu vert, il tranche l'herbe en criant « Hyaa ! » et fouille dedans, déçu (Link, Zelda).
+- Idées pour la suite : un dresseur de petits monstres à Port-Gris, un héros endormi qui attend « son tour » depuis mille ans dans le Hameau caché, un marchand qui répète « Merci de votre visite ! » dans les marais.
+
 ## 6. Scénario
 | Acte | Durée | Ce qui se passe |
 |---|---|---|
